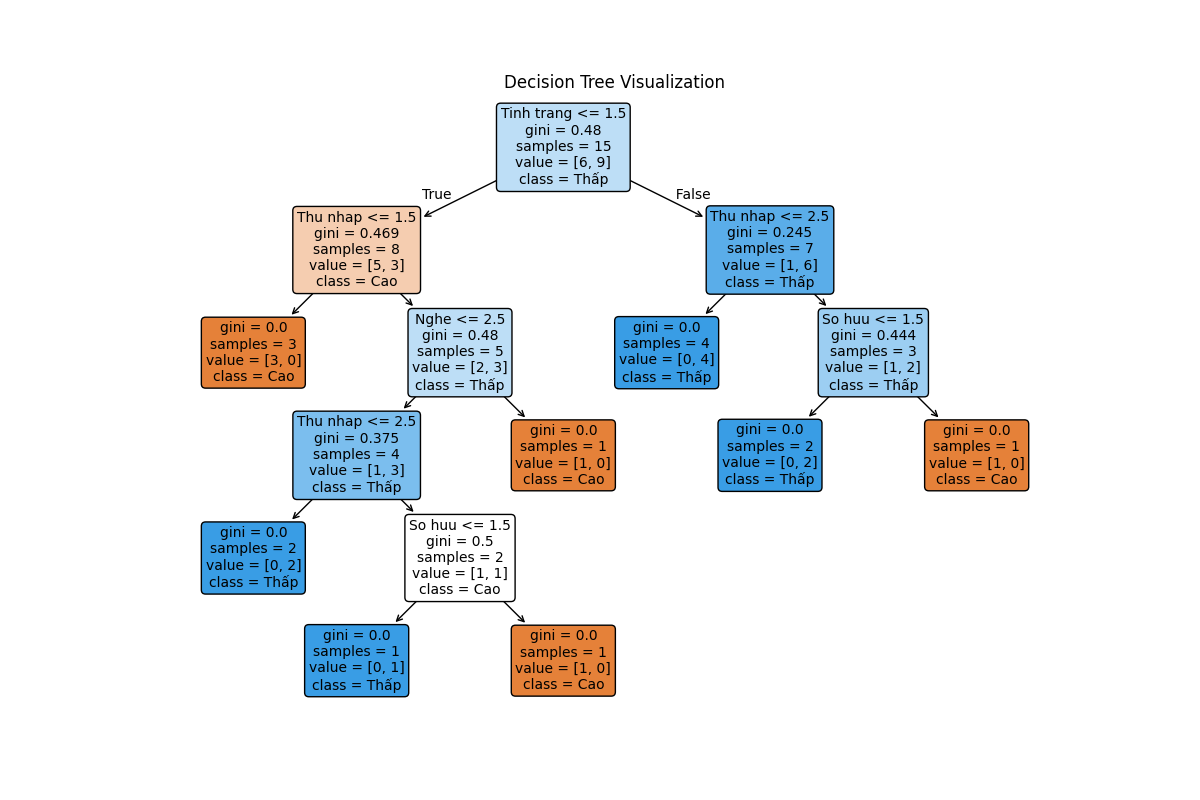
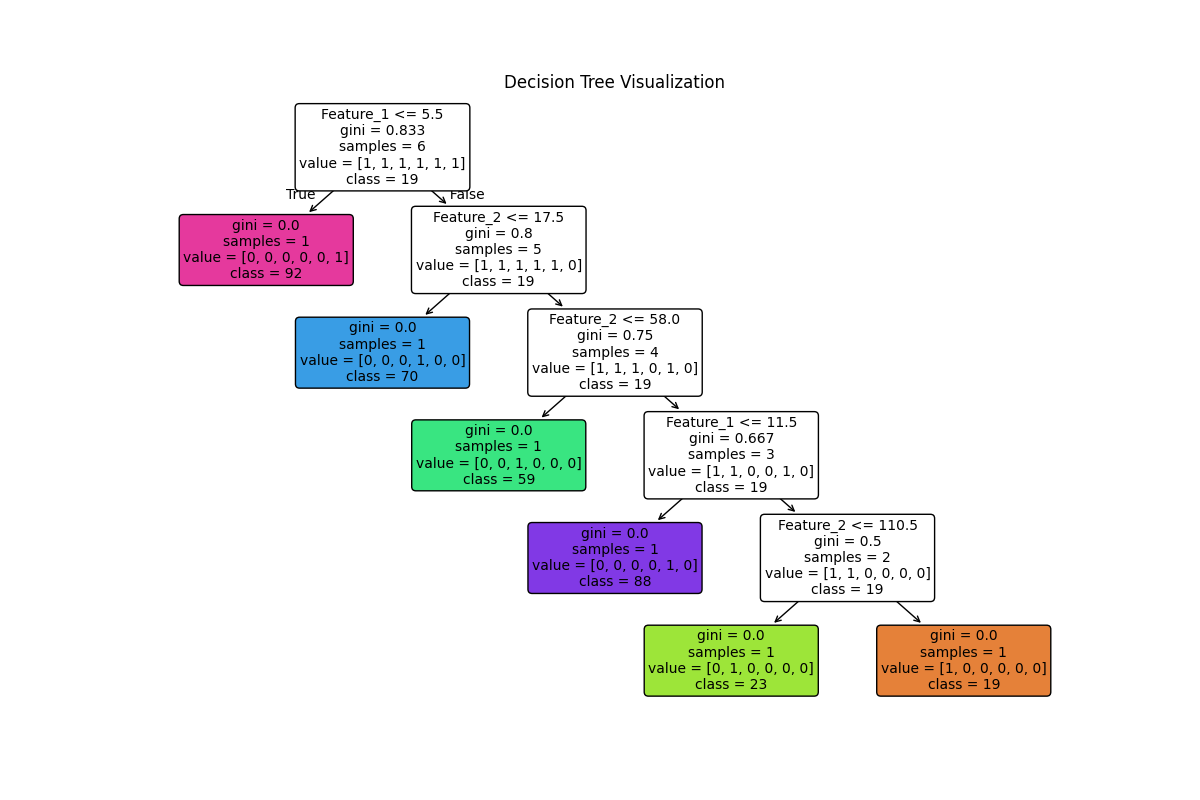
Add files via upload

Changed region(s): [[0.1233, 0.125, 0.8942, 0.875]]

diff --git a/algorithms/decision_tree.py b/algorithms/decision_tree.py
@@ -1,7 +1,18 @@
 from sklearn.tree import DecisionTreeClassifier, export_text, plot_tree
+from sklearn.preprocessing import LabelEncoder
 import matplotlib.pyplot as plt
+import pandas as pd
+import os
 
 def decision_tree_algorithm(data):
+    # Kiểm tra nếu dữ liệu chứa giá trị phân loại và xử lý
+    encoders = {}
+    for col in data.columns:
+        if data[col].dtype == 'object':
+            encoder = LabelEncoder()
+            data[col] = encoder.fit_transform(data[col])
+            encoders[col] = encoder
+
     X = data.iloc[:, :-1]  # Đặc trưng
     y = data.iloc[:, -1]   # Nhãn
 
@@ -14,15 +25,26 @@ def decision_tree_algorithm(data):
 
     # Vẽ biểu đồ cây
     plt.figure(figsize=(12, 8))
-    plot_tree(model, feature_names=list(X.columns), class_names=model.classes_, filled=True,rounded=True,fontsize=10)
+    plot_tree(model, feature_names=list(X.columns), class_names=model.classes_.astype(str), filled=True, rounded=True, fontsize=10)
     plt.title("Decision Tree Visualization")
 
     # Lưu biểu đồ vào thư mục static
     image_filename = 'decision_tree_plot.png'
     image_path = f"images/{image_filename}"  # Đường dẫn tương đối từ static
+
+    # Đảm bảo thư mục 'static/images' tồn tại
+    os.makedirs('static/images', exist_ok=True)
     plt.savefig(f"static/{image_path}")
     plt.close()
 
     # Trả về các quy tắc cây và đường dẫn hình ảnh
     return f"<pre>{tree_rules}</pre>", image_path
 
+# Ví dụ cách sử dụng:
+# data = pd.DataFrame({
+#     'Feature1': ['A', 'B', 'A', 'C'],
+#     'Feature2': ['X', 'Y', 'X', 'Z'],
+#     'Label': ['Yes', 'No', 'Yes', 'No']
+# })
+# result = decision_tree_algorithm(data)
+# print(result)

diff --git a/algorithms/k_means.py b/algorithms/k_means.py
@@ -45,7 +45,7 @@ def kmeans_algorithm(data, n_clusters=3, max_iter=100, tolerance=1e-4):
     plt.figure(figsize=(8, 6))
     for i in range(n_clusters):
         cluster_points = data[labels == i]
-        plt.scatter(cluster_points[:, 0], cluster_points[:, 1], label=f'Cluster {i}')
+        plt.scatter(cluster_points[:, 0], cluster_points[:, 1], label=f'Cluster {i + 1}')
     plt.scatter(centroids[:, 0], centroids[:, 1], s=300, c='red', marker='X', label='Centroids')
     plt.title('K-Means Clustering (Custom Implementation)')
     plt.xlabel('Feature 1')
@@ -61,6 +61,7 @@ def kmeans_algorithm(data, n_clusters=3, max_iter=100, tolerance=1e-4):
 
     # Chuyển đổi kết quả thành DataFrame
     result_data = pd.DataFrame(data, columns=[f'Feature_{i+1}' for i in range(n_features)])
-    result_data['Cluster'] = labels
+    result_data['Cluster'] = labels + 1
+    result_data.index = np.arange(1, len(result_data) + 1)
 
     return result_data.to_html(), image_path

diff --git a/algorithms/bayes.py b/algorithms/bayes.py
@@ -63,7 +63,6 @@ def bayes_algorithm(data, feature_list=None, feature_values=None, laplace_smooth
         
         # Lưu xác suất của lớp
         class_probabilities[cls] = probability
-    
     # Chọn lớp có xác suất cao nhất
     predicted_class = max(class_probabilities, key=class_probabilities.get)
     
